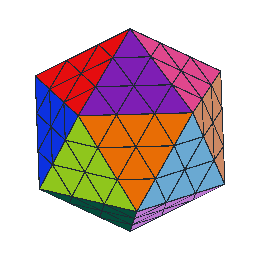
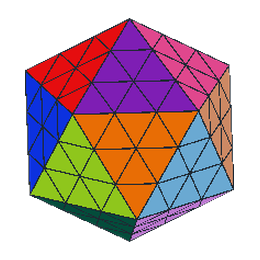
Normalise puzzle thumbnails to one common scale
Crop each render to its visible bounds and re-centre it at a fixed fill so
every menu card (cube-shaped and otherwise) is shown at the same scale.

Changed region(s): [[0.0923, 0.0615, 0.9231, 0.9538]]

diff --git a/tools/export_puzzle_thumbs.py b/tools/export_puzzle_thumbs.py
@@ -65,6 +65,31 @@ JOBS = [
 OUT = os.path.join(BASE, "assets", "puzzles")
 os.makedirs(OUT, exist_ok=True)
 SIZE = 260
+#: Every thumbnail is normalised so its visible content spans this many pixels,
+#: which puts all puzzles (cube-shaped and not) on one common scale.
+FILL = 224
+
+
+def _normalize(path):
+    """Crop to the visible content and re-centre it at a common scale."""
+    try:
+        from PIL import Image
+        import numpy as np
+    except Exception:
+        return
+    im = Image.open(path).convert("RGBA")
+    alpha = np.array(im)[..., 3]
+    ys, xs = np.where(alpha > 8)
+    if len(xs) == 0:
+        return
+    crop = im.crop((int(xs.min()), int(ys.min()), int(xs.max()) + 1, int(ys.max()) + 1))
+    w, h = crop.size
+    scale = FILL / max(w, h)
+    nw, nh = max(1, int(round(w * scale))), max(1, int(round(h * scale)))
+    crop = crop.resize((nw, nh), Image.LANCZOS)
+    out = Image.new("RGBA", (SIZE, SIZE), (0, 0, 0, 0))
+    out.paste(crop, ((SIZE - nw) // 2, (SIZE - nh) // 2), crop)
+    out.save(path)
 
 
 class ThumbApp(App):
@@ -114,7 +139,9 @@ class ThumbApp(App):
 
     def _export(self, view, name):
         try:
-            view.export_to_png(os.path.join(OUT, name + ".png"))
+            path = os.path.join(OUT, name + ".png")
+            view.export_to_png(path)
+            _normalize(path)
             print("saved", name, flush=True)
         except Exception as exc:
             print("export failed", name, repr(exc), flush=True)
